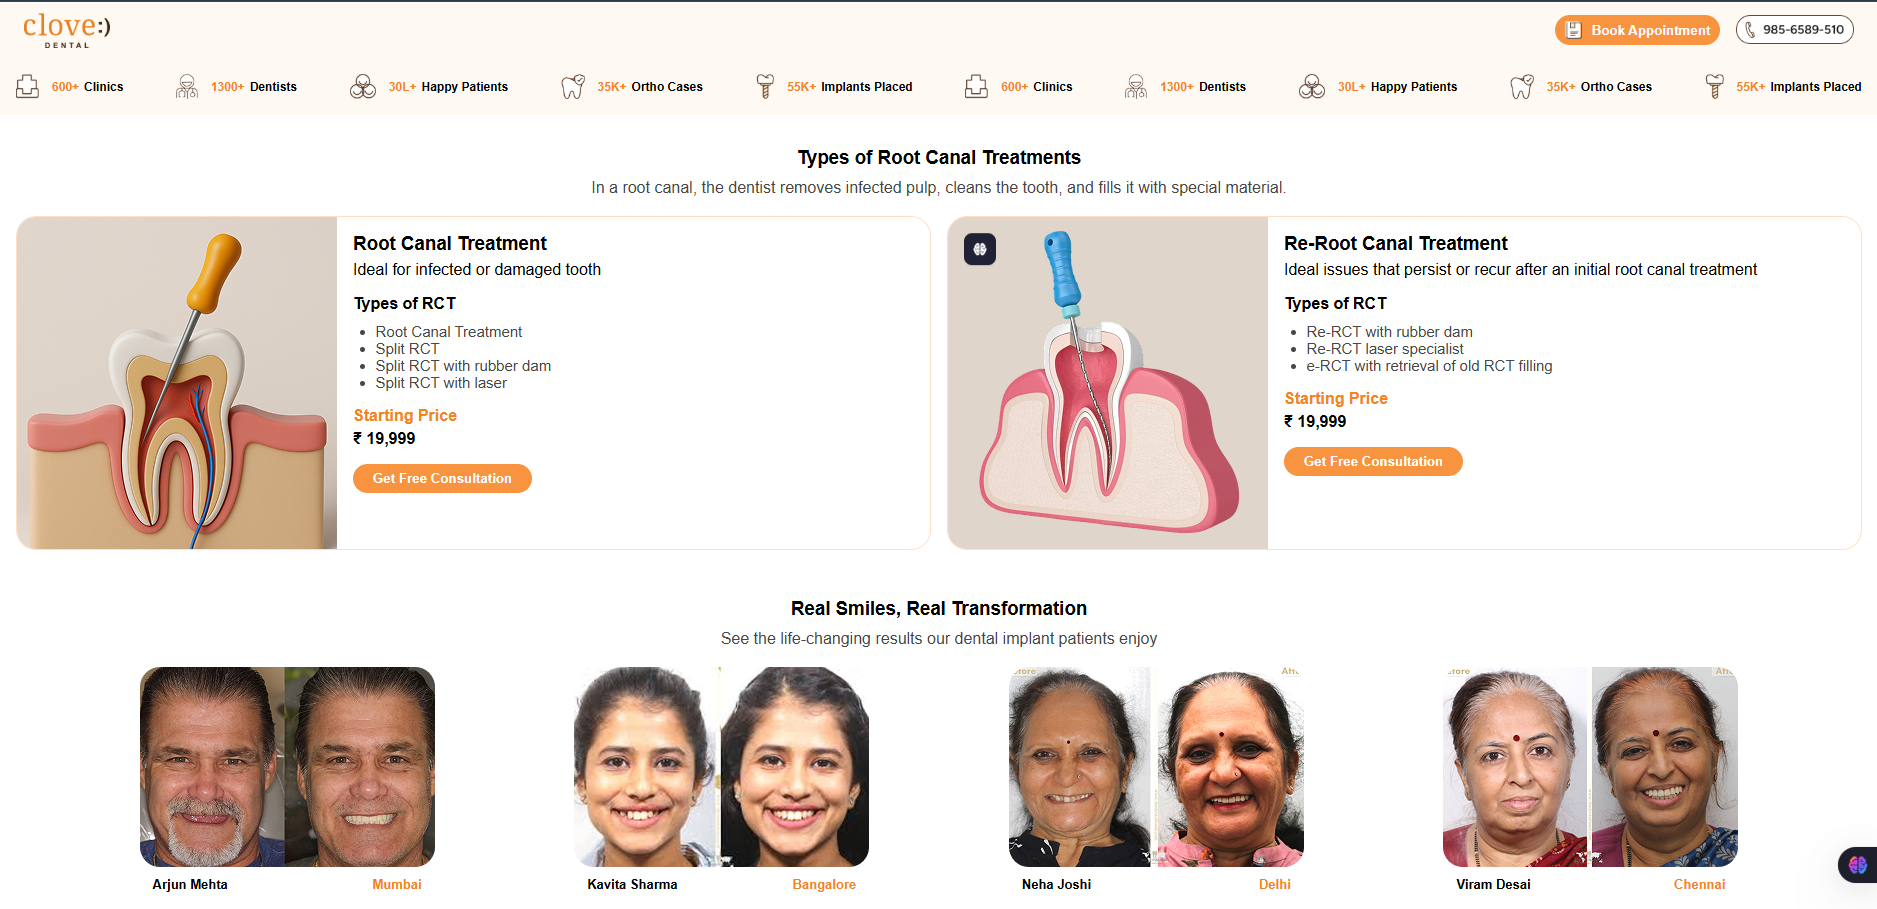
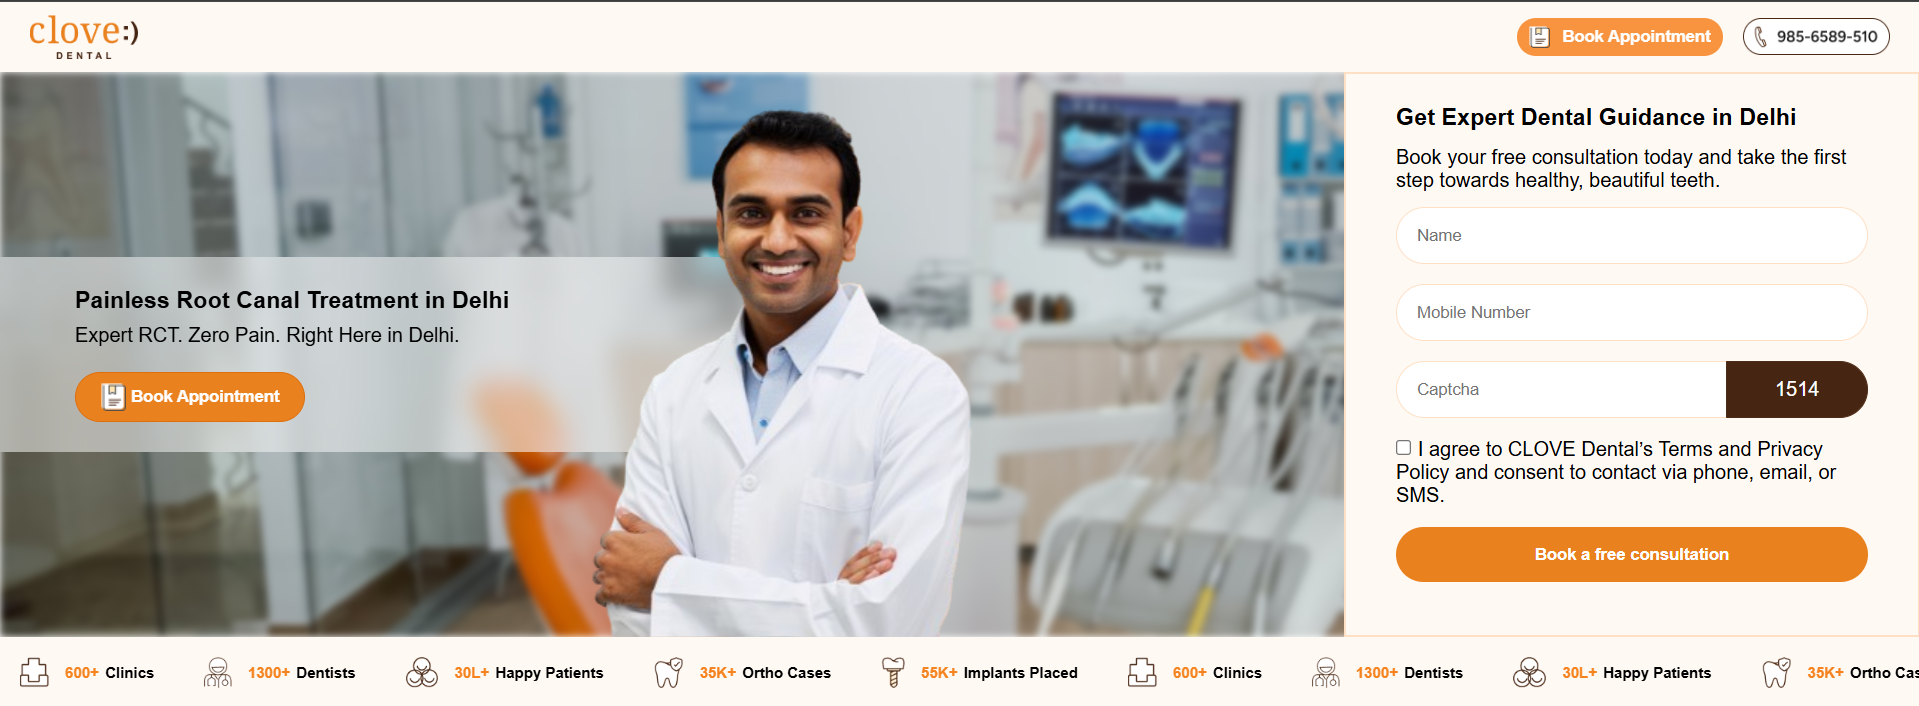
captcha position fixed

diff --git a/styles/style.css b/styles/style.css
@@ -175,18 +175,34 @@ body {
     position: relative;
   }
 
+  .captcha-box {
+    display: flex;
+    width: 100%;
+  }
+
+  /* .captcha-box input {
+    flex: 1;
+    padding: 14px 16px;
+    border: 1px solid #FFE0C4;
+    border-right: none;
+    border-radius: 24px 0 0 24px;
+    outline: none;
+  } */
+  .captcha-box input {
+    flex: 1;
+    border-radius: 24px 0 0 24px !important;
+    border-right: none;
+  }
+
   .captcha {
-    background-color: #462512;
+    display: flex;
+    align-items: center;
+    justify-content: center;
+    padding: 0 20px;
+    background: #462512;
     color: white;
-    width: 30%;
-    padding: 13px 16px;
-    border-top-right-radius: 24px;
-    border-bottom-right-radius: 24px;
-    position: absolute;
-    bottom: 43.7%;
-    right: 0;
-    text-align: center;
     border: 1px solid #4d2c19;
+    border-radius: 0 24px 24px 0;
   }
 
   .consultation-form form input {

diff --git a/index.html b/index.html
@@ -59,7 +59,10 @@
         <form>
           <input type="text" placeholder="Name">
           <input type="text" placeholder="Mobile Number">
-          <input type="text" placeholder="Captcha"><span class="captcha">1514</span>
+          <div class="captcha-box">
+            <input type="text" placeholder="Captcha">
+            <span class="captcha">1514</span>
+          </div>
 
           <label>
             <input type="checkbox">
